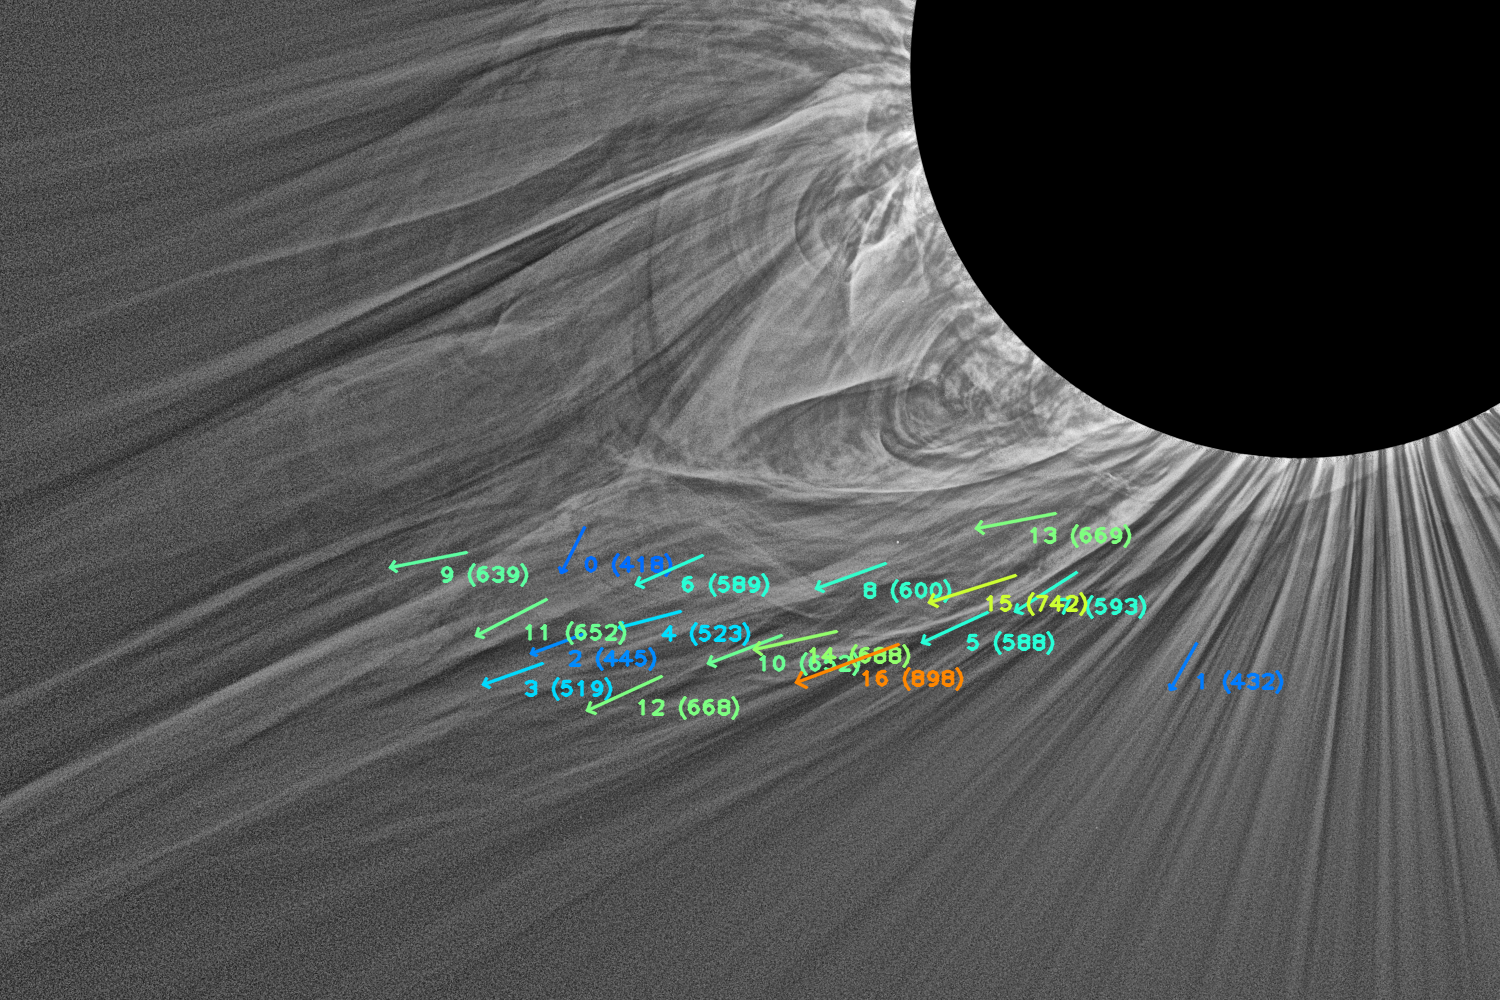
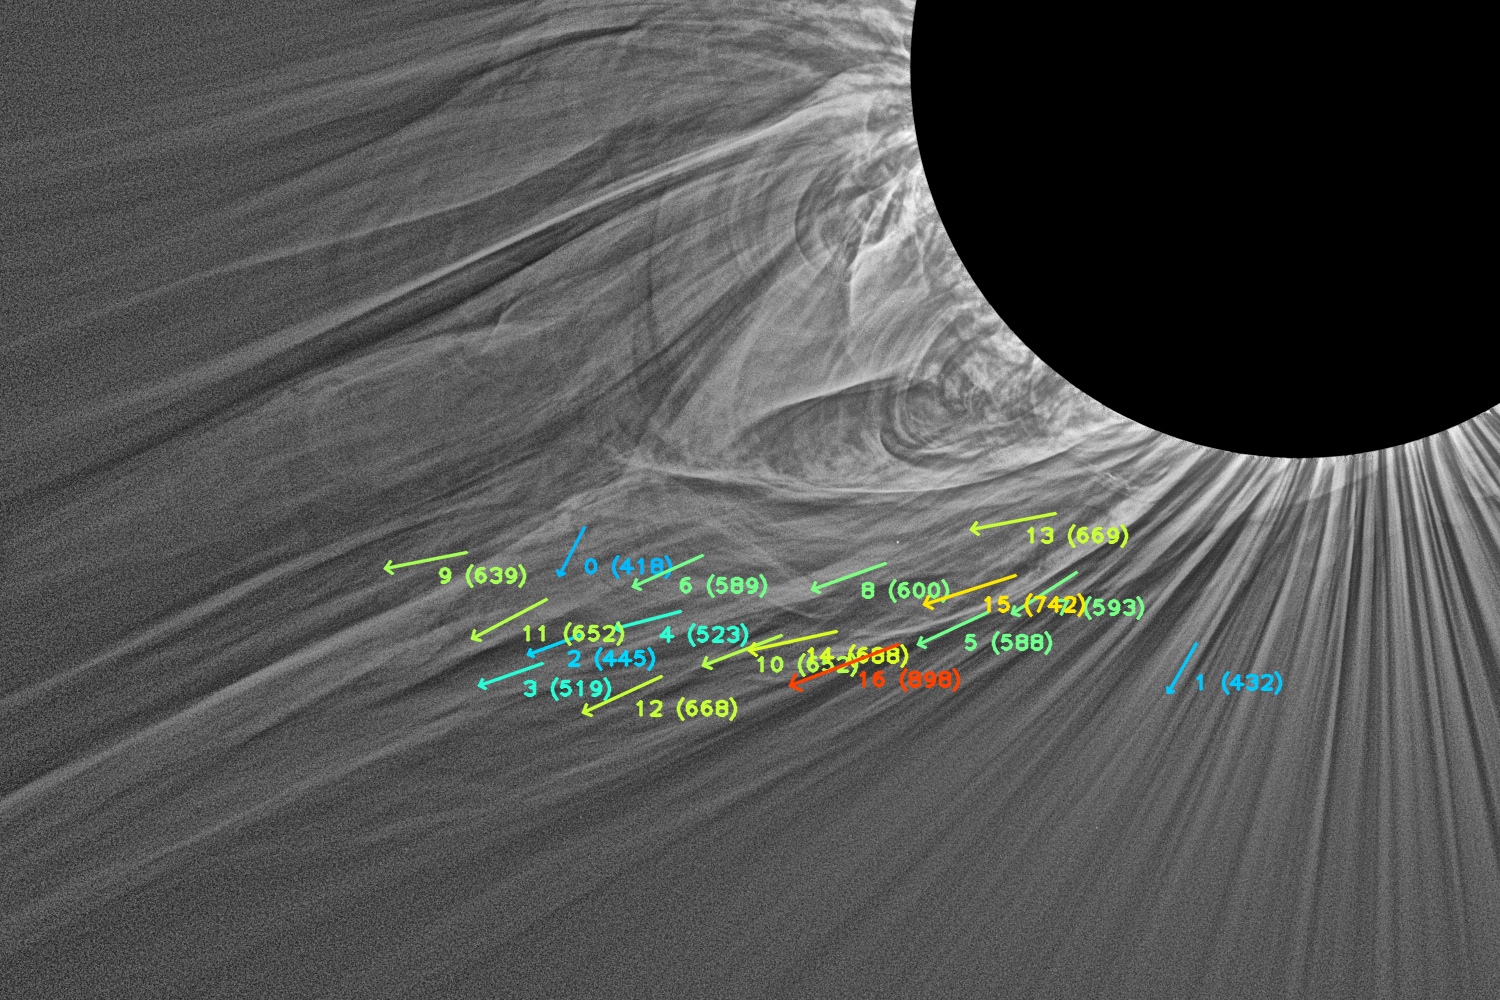
yeey

Changed region(s): [[0.2453, 0.527, 0.7667, 0.713], [0.644, 0.496, 0.7667, 0.558], [0.7973, 0.651, 0.8587, 0.713]]

diff --git a/Zdeny_PhD_Shenanigans/Features/FeatureMatch.h b/Zdeny_PhD_Shenanigans/Features/FeatureMatch.h
@@ -159,7 +159,7 @@ inline Mat DrawFeatureMatchArrows(const Mat& img, const std::vector<std::tuple<s
     shouldDraw[idx] = true;
   }
 
-  size_t drawcounter = 0;
+  size_t drawcounter = 1;
 
   for (auto it = matches_all.rbegin(); it != matches_all.rend(); ++it)
   {
@@ -175,7 +175,7 @@ inline Mat DrawFeatureMatchArrows(const Mat& img, const std::vector<std::tuple<s
     Point2f arrStart = data.upscale * pts.first;
     Point2f arrEnd = data.upscale * pts.first + arrow_scale * out.cols / maxspd * (pts.second - pts.first);
     Point2f textpos = (arrStart + arrEnd) / 2;
-    Scalar color = colorMapJet(spd, minspd * 0.5, maxspd * 1.2); // not too strong colors
+    Scalar color = colorMapJet(spd, 100, 1050); // not too strong colors
     textpos.x += text_xoffset * out.cols;
     textpos.y += text_yoffset * out.cols;
     arrowedLine(out, arrStart, arrEnd, color, arrow_thickness * out.cols, LINE_AA, 0, 0.1);
